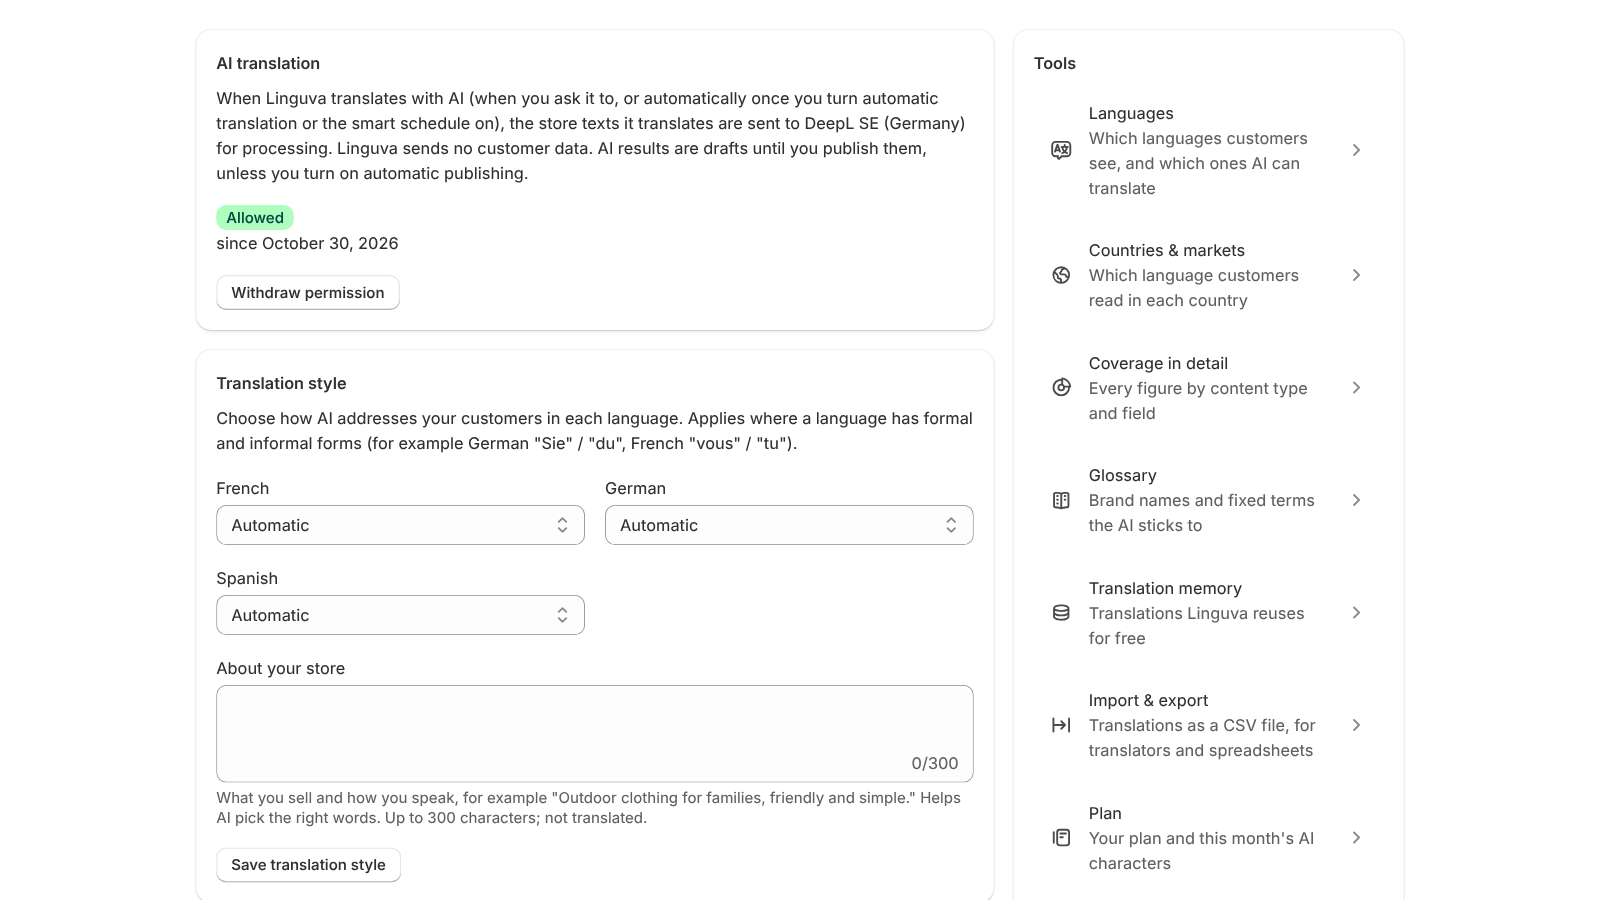
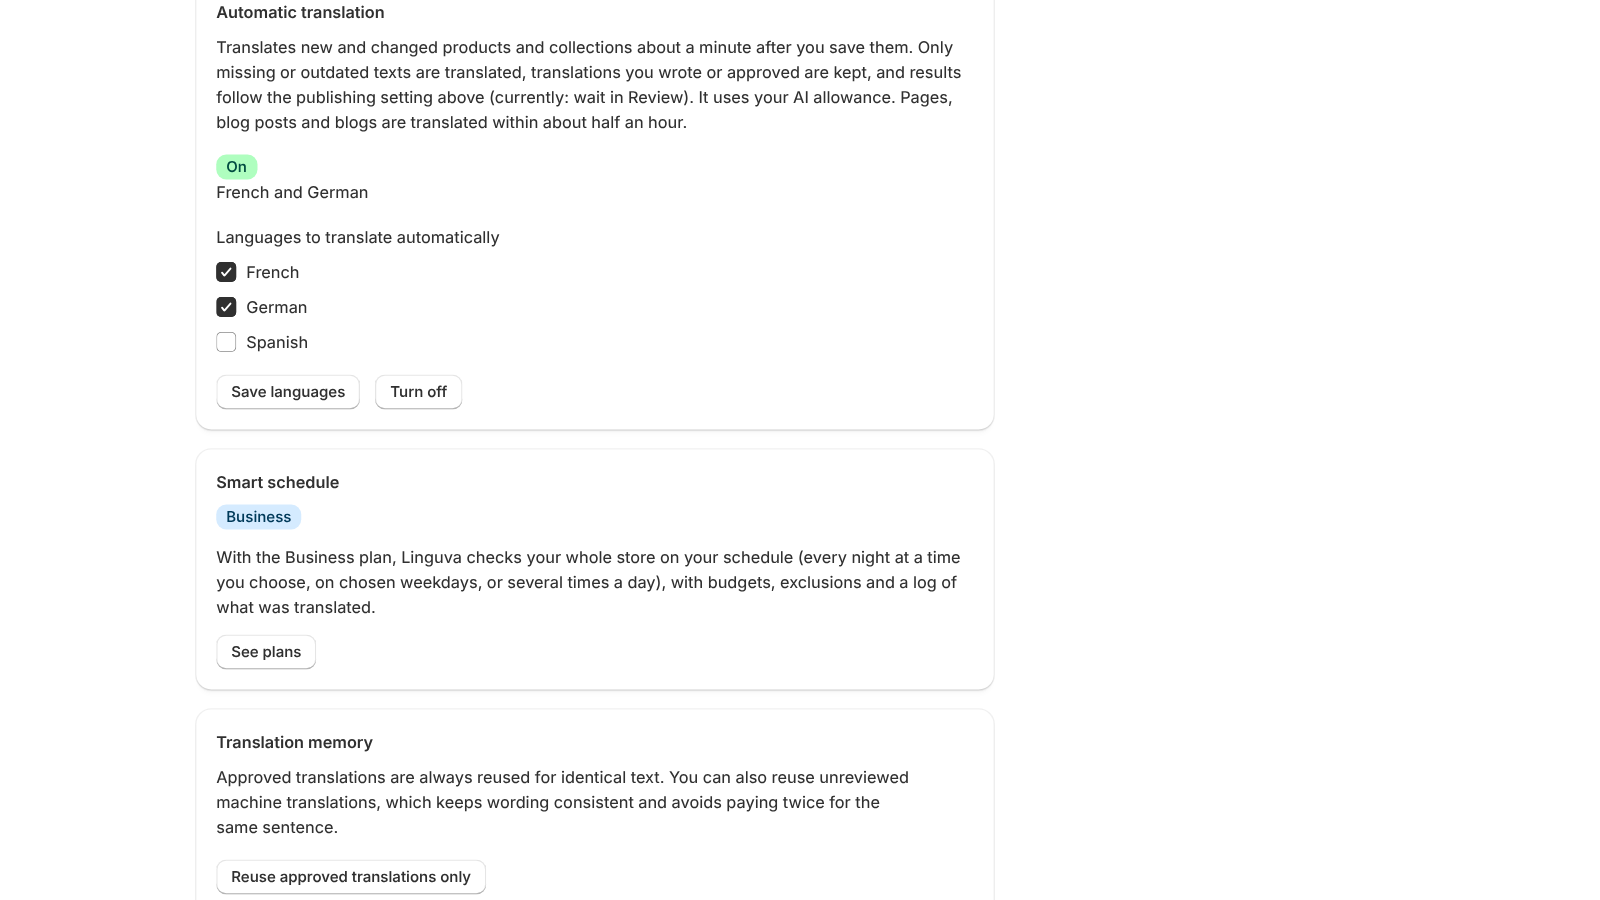
Redesign: browser tests, screenshots and docs
App Store screenshots scroll to a section by its heading, so 6-settings
shows automatic translation again.

Claude-Session: https://claude.ai/code/session_017cbKVT3BcZdBrZJiujzoDs

diff --git a/tests/ui/app-store-screenshots.spec.ts b/tests/ui/app-store-screenshots.spec.ts
@@ -29,9 +29,9 @@ const DESKTOP = [
   { file: "3-outdated.png", path: "/app/products/2?lang=de" },
   { file: "4-review.png", path: "/app/review" },
   { file: "5-glossary.png", path: "/app/glossary" },
-  { file: "6-settings.png", path: "/app/settings", scrollTo: 's-section[heading="Automatic translation"]' },
+  { file: "6-settings.png", path: "/app/settings", scrollTo: "Automatic translation" },
   { file: "7-overview.png", path: "/app" },
-  { file: "9-language.png", path: "/app/languages/de", scrollTo: 'h2:has-text("Area by area")' },
+  { file: "9-language.png", path: "/app/languages/de", scrollTo: "Area by area" },
 ];
 
 test.describe("desktop", () => {
@@ -41,7 +41,8 @@ test.describe("desktop", () => {
       test.skip(info.project.name !== "desktop", "Desktop screenshots once");
       await openApp(page, "demo", shot.path);
       await settle(page);
-      if (shot.scrollTo) await page.locator(shot.scrollTo).evaluate((el) => el.scrollIntoView({ block: "start" }));
+      // To a section by its heading (a section's own element has no box to scroll to).
+      if (shot.scrollTo) await page.getByRole("heading", { name: shot.scrollTo, exact: true }).first().evaluate((el) => el.scrollIntoView({ block: "start" }));
       await page.waitForTimeout(200);
       const image = await page.screenshot({ path: `${OUT}/${shot.file}`, animations: "disabled", caret: "hide" });
       expect(image.length).toBeGreaterThan(10_000);
